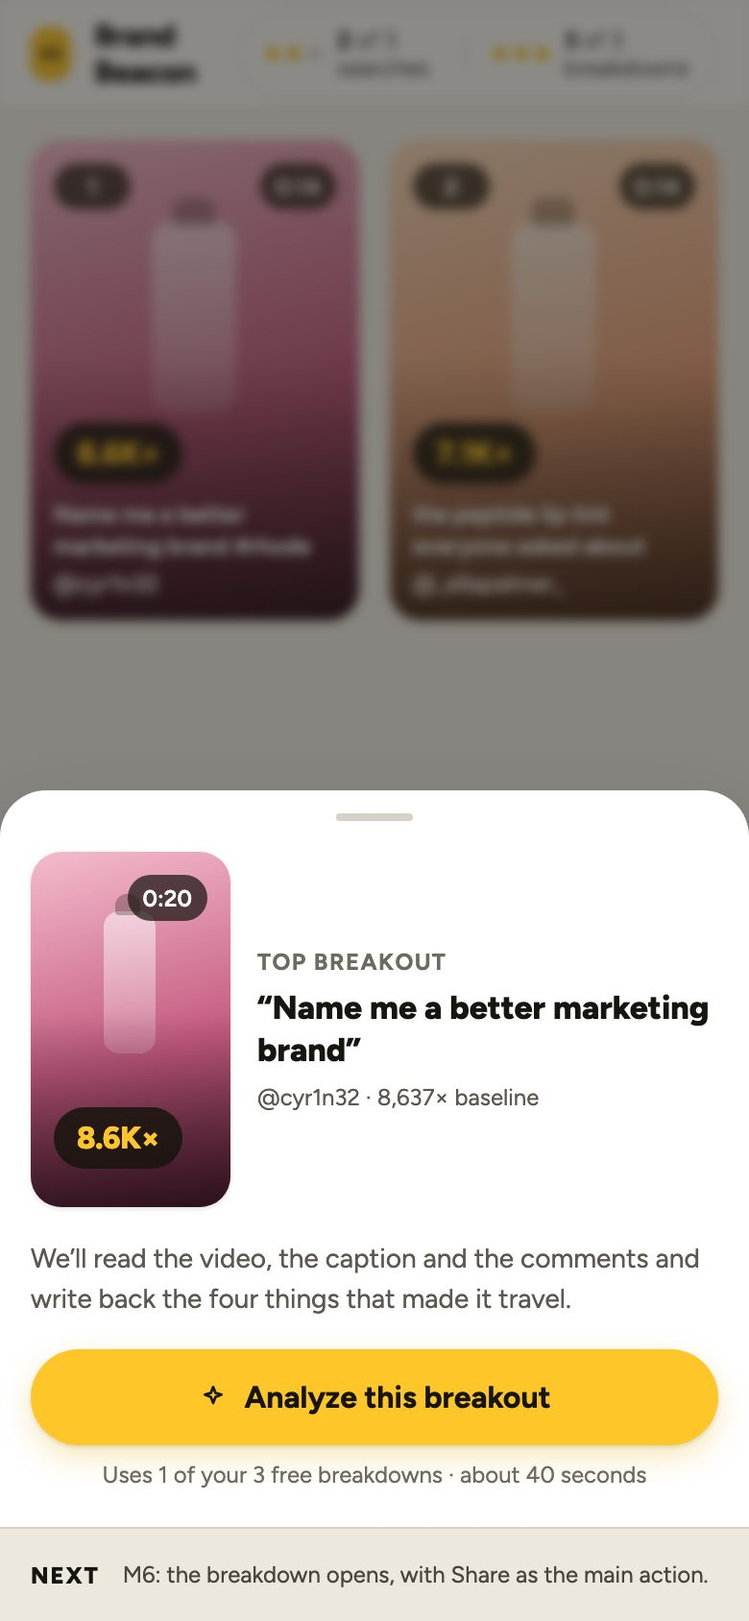
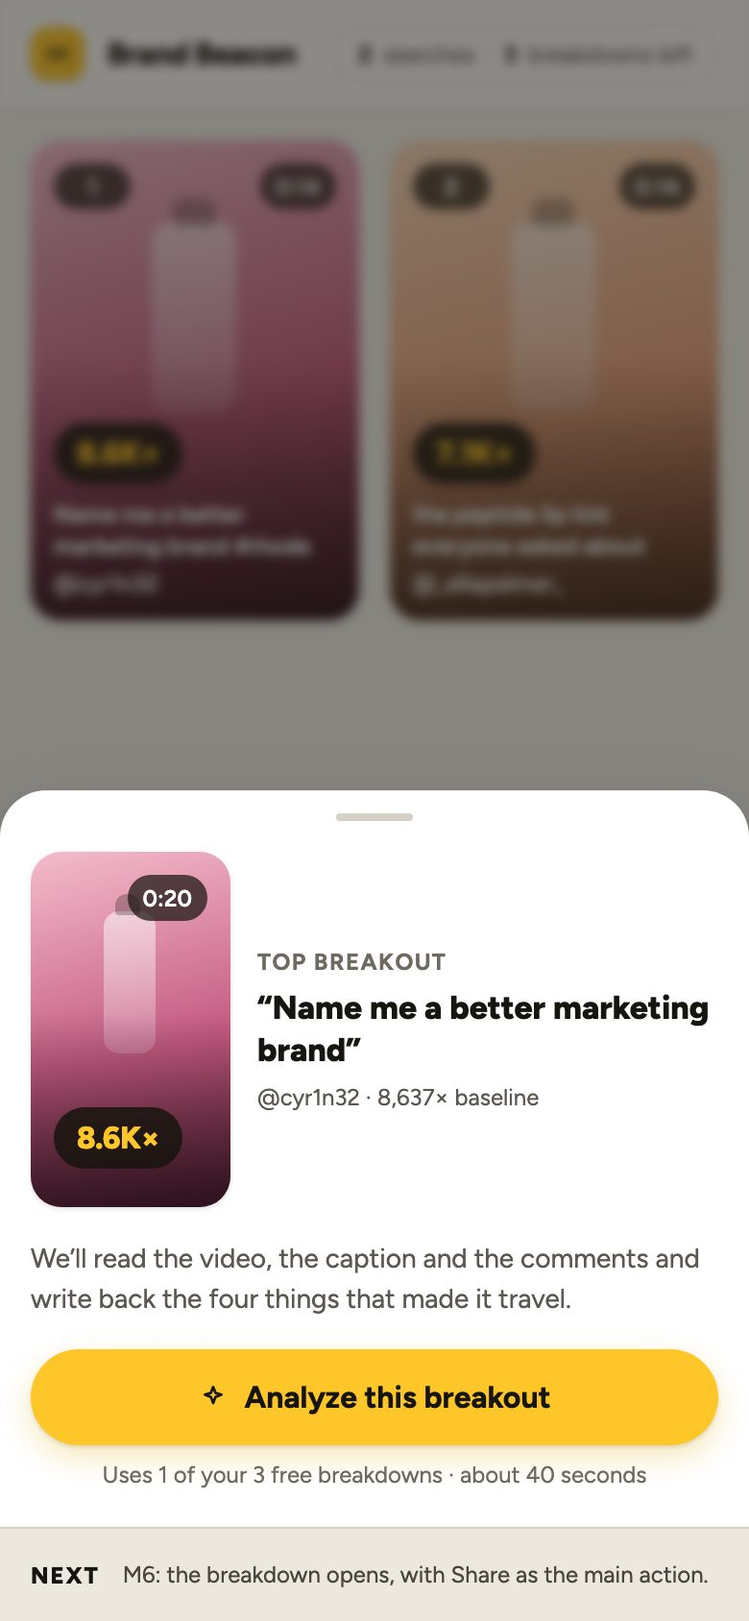
UI pass: cut the clutter and fix the hierarchy
Landing page went from 18 competing elements to 9. Dropped the eyebrow
pill, the trust row (its "11,000+ brands" claim moved into the subhead
and "no card" now appears once instead of twice) and the card's
restatement of its own heading. Google is the single solid primary and
email is a text link. The proof moved into the left column led by
8,637x at 44px rather than 22px in a detached box, and the duplicate
score chip came off the thumbnail.

Quota now counts one direction, what is left, and lives only in the
top bar: the "Search 1 of 3" card is gone from S03, the pill and "2
left, they do not expire" from S06, the chip from S07. On mobile it is
one line without the dots, which were redundant with the number.

The check icon meant three things. "Do this next" now uses arrows and
is a white card with a yellow left border, so it stops competing with
the Share button under it.

Results has one primary: Analyze on the top breakout only, and "Sort:
Breakout Score" went because the subhead already says it.

Also out: the inert "Do this next" tab whose content was already on
screen, the video caption that repeated the H1, and the second creator
block.

diff --git a/user-flow/src/gen.py b/user-flow/src/gen.py
@@ -210,11 +210,17 @@ G_SVG = ('<svg width="20" height="20" viewBox="0 0 48 48" aria-hidden="true" sty
  '<path fill="#FBBC05" d="M11.6 28c-.4-1.3-.7-2.6-.7-4s.3-2.7.7-4v-5.8H4.2C2.8 17.1 2 20.4 2 24s.8 6.9 2.2 9.8l7.4-5.8z"/>'
  '<path fill="#EA4335" d="M24 10.8c3.3 0 6.2 1.1 8.5 3.3l6.3-6.3C35 4.2 30 2 24 2 15.3 2 7.8 6.9 4.2 14.2l7.4 5.8C13.3 14.7 18.2 10.8 24 10.8z"/></svg>')
 
-def google_btn(full=True, h=52, fs=16, label='Continue with Google'):
+def google_btn(full=True, h=52, fs=16, label='Continue with Google', solid=False):
     w = 'width:100%;' if full else ''
-    return (f'<button type="button" style="height:{h}px; padding:0 24px; border-radius:999px; border:1px solid {LINE2}; background:{SURF}; '
-            f'font-family:inherit; font-size:{fs}px; font-weight:700; color:{INK}; cursor:pointer; display:inline-flex; align-items:center; '
-            f'justify-content:center; gap:12px; white-space:nowrap; box-shadow:{SH2}; {w}">{G_SVG}{label}</button>')
+    if solid:
+        st = f'border:none; background:{INK}; color:#ffffff; box-shadow:{SH2};'
+        chip = f'<span style="width:26px; height:26px; border-radius:999px; background:#fff; display:inline-flex; align-items:center; justify-content:center;">{G_SVG}</span>'
+    else:
+        st = f'border:1px solid {LINE2}; background:{SURF}; color:{INK}; box-shadow:{SH2};'
+        chip = G_SVG
+    return (f'<button type="button" style="height:{h}px; padding:0 24px; border-radius:999px; {st} '
+            f'font-family:inherit; font-size:{fs}px; font-weight:700; cursor:pointer; display:inline-flex; align-items:center; '
+            f'justify-content:center; gap:12px; white-space:nowrap; {w}">{chip}{label}</button>')
 
 def hero_search(w=780):
     return (f'<div style="width:{w}px; background:{SURF}; border-radius:999px; padding:10px 10px 10px 26px; box-sizing:border-box; '
@@ -285,7 +291,7 @@ def progress(mobile=False):
             f'<span style="font-size:{12 if mobile else 14}px; color:{T2}; line-height:1.5;">It opens on its own when ready. We&rsquo;ll also email you.</span></div>')
 
 def tabs(mobile=False, names=None, active=0):
-    names = names or ['Why it worked', 'Do this next', 'Hook', 'Transcript']
+    names = names or ['Why it worked', 'Hook', 'Transcript']
     tt = ''
     for i, n in enumerate(names):
         on = i == active
@@ -299,15 +305,18 @@ def do_next_card(mobile=False):
     The four drivers explain someone else's video. This turns them into the brand's next move."""
     acts = [('Brief a creator with it', 'Open with a countable challenge, one line, no filler.'),
             ('Post it in the same window', 'This ran Tue 7pm. Your last three breakouts did too.')]
-    li = ''.join(f'<li style="display:flex; gap:10px;">{check_dot(18)}<span><span style="display:block; font-size:{14 if mobile else 15}px; font-weight:700; line-height:1.35;">{a}</span>'
-                 f'{"" if mobile else f"<span style=\'display:block; font-size:13px; color:{Y_TXT}; line-height:1.4;\'>{b}</span>"}</span></li>' for a, b in acts)
-    creator = (f'<div style="display:flex; align-items:center; gap:10px; padding-top:12px; border-top:1px solid {Y_LINE};">{avatar("CY", 32, "berry")}'
-               f'<span style="display:flex; flex-direction:column; line-height:1.3; min-width:0; flex-grow:1;">'
-               f'<span style="font-size:{13 if mobile else 14}px; font-weight:700;">@cyr1n32 &middot; not yet partnered</span>'
-               f'<span style="font-size:12px; color:{Y_TXT};">3 breakouts for skincare brands this quarter</span></span>'
+    arrow = (f'<span style="width:18px; height:18px; border-radius:999px; background:{Y_TINT}; display:inline-flex; align-items:center; '
+             f'justify-content:center; flex-shrink:0; margin-top:2px;">{ic(P_ARROW, 11, Y_TXT, 2.4)}</span>')
+    li = ''.join(f'<li style="display:flex; gap:10px;">{arrow}<span><span style="display:block; font-size:{14 if mobile else 15}px; font-weight:700; line-height:1.35;">{a}</span>'
+                 f'{"" if mobile else f"<span style=\'display:block; font-size:13px; color:{T2}; line-height:1.4;\'>{b}</span>"}</span></li>' for a, b in acts)
+    creator = (f'<div style="display:flex; align-items:center; gap:10px; padding-top:12px; border-top:1px solid {LINE};">'
+               f'<span style="display:flex; flex-direction:column; line-height:1.35; min-width:0; flex-grow:1;">'
+               f'<span style="font-size:{13 if mobile else 14}px; font-weight:700;">The creator is not yet partnered</span>'
+               f'<span style="font-size:12px; color:{T2};">3 breakouts for skincare brands this quarter</span></span>'
                f'{btn("Add to creator list", "secondary", 36, 13)}</div>')
-    return (f'<div style="background:{Y_TINT}; border:1px solid {Y_LINE}; border-radius:16px; padding:{14 if mobile else 15}px; display:flex; flex-direction:column; gap:10px;">'
-            f'{label("Do this next", Y_TXT)}<ul style="margin:0; padding:0; list-style:none; display:flex; flex-direction:column; gap:8px;">{li}</ul>{creator}</div>')
+    return (f'<div style="background:{SURF}; border-radius:16px; border-left:4px solid {Y}; padding:{14 if mobile else 15}px; '
+            f'box-shadow:{SH1}; display:flex; flex-direction:column; gap:10px;">'
+            f'{label("Do this next")}<ul style="margin:0; padding:0; list-style:none; display:flex; flex-direction:column; gap:8px;">{li}</ul>{creator}</div>')
 
 def tile_meta(fol, w):
     return f'<span style="display:block; width:{w}px; margin-top:8px; font-size:14px; color:{T2};">{fol}</span>'
@@ -315,32 +324,34 @@ def tile_meta(fol, w):
 
 # ---------- v4 shared pieces: the free quota is the spine of this flow ----------
 def quota(searches, analyses, mobile=False, tint=False):
-    """3 searches and 3 breakdowns, visible from the first screen so the paywall is never a surprise."""
+    """Counts what is LEFT, and only ever appears in the bar. Screens do not restate it."""
     def meter(used, total, word):
         dots = ''.join(f'<span style="width:{7 if mobile else 8}px; height:{7 if mobile else 8}px; border-radius:999px; '
                        f'background:{Y if i < total - used else "rgba(23,21,15,.16)"};"></span>' for i in range(total))
         return (f'<span style="display:inline-flex; align-items:center; gap:8px;">'
                 f'<span style="display:inline-flex; gap:4px;">{dots}</span>'
-                f'<span style="font-size:{12 if mobile else 13}px; color:{T2};"><b style="color:{INK};">{total - used}</b> of {total} {word}</span></span>')
+                f'<span style="font-size:{12 if mobile else 13}px; color:{T2};"><b style="color:{INK};">{total - used}</b> {word} left</span></span>')
     bg = f'background:{Y_TINT}; border:1px solid {Y_LINE};' if tint else f'background:{SURF}; border:1px solid {LINE};'
-    return (f'<div style="display:inline-flex; align-items:center; gap:{14 if mobile else 20}px; padding:{8 if mobile else 10}px {14 if mobile else 16}px; '
+    if mobile:
+        return (f'<span style="display:inline-flex; align-items:center; gap:6px; padding:7px 12px; border-radius:999px; {bg} '
+                f'font-size:12px; color:{T2}; white-space:nowrap;"><b style="color:{INK};">{3 - searches}</b> searches'
+                f'<span style="color:{T3};">&middot;</span><b style="color:{INK};">{3 - analyses}</b> breakdowns left</span>')
+    return (f'<div style="display:inline-flex; align-items:center; gap:20px; padding:10px 16px; '
             f'border-radius:999px; {bg}">{meter(searches, 3, "searches")}'
             f'<span style="width:1px; height:16px; background:{LINE2};"></span>{meter(analyses, 3, "breakdowns")}</div>')
 
-def signin_card(w=420, mobile=False):
-    """Ivan, 24 Sept: 'landing page with focus on google sign in (also other sign in)'."""
-    gets = ['3 brand searches', '3 AI breakdowns', 'Share any breakout, no limit', 'No card']
-    li = ''.join(f'<li style="display:flex; align-items:center; gap:10px; font-size:{14 if mobile else 15}px;">{check_dot(18)}{g}</li>' for g in gets)
+def signin_card(w=400, mobile=False):
+    """One heading, three lines, one primary. Everything else was restating it."""
+    gets = ['3 brand searches', '3 AI breakdowns', 'No card, ever']
+    li = ''.join(f'<li style="display:flex; align-items:center; gap:10px; font-size:{15 if mobile else 16}px;">{check_dot(18)}{g}</li>' for g in gets)
     return (f'<div style="width:{"100%" if mobile else str(w) + "px"}; box-sizing:border-box; background:{SURF}; border-radius:24px; '
-            f'padding:{20 if mobile else 28}px; box-shadow:{SH3}; display:flex; flex-direction:column; gap:{14 if mobile else 18}px;">'
-            f'<div style="display:flex; flex-direction:column; gap:4px;">'
-            f'<span style="font-size:{20 if mobile else 22}px; font-weight:800; letter-spacing:-0.02em;">Start free</span>'
-            f'<span style="font-size:{13 if mobile else 14}px; color:{T2};">Here is what a free account gets you.</span></div>'
-            f'<ul style="margin:0; padding:0; list-style:none; display:flex; flex-direction:column; gap:10px;">{li}</ul>'
-            f'{google_btn(True, 52, 16)}'
-            f'{btn("Continue with email", "secondary", 48, 15, True, ic(P_MAIL, 16, INK))}'
-            f'<span style="font-size:12px; color:{T3}; text-align:center; line-height:1.5;">Already have an account? '
-            f'<a href="#" style="color:{Y_TXT}; font-weight:700;">Sign in</a></span></div>')
+            f'padding:{22 if mobile else 30}px; box-shadow:{SH3}; display:flex; flex-direction:column; gap:{18 if mobile else 22}px;">'
+            f'<span style="font-size:{21 if mobile else 23}px; font-weight:800; letter-spacing:-0.02em;">Start free</span>'
+            f'<ul style="margin:0; padding:0; list-style:none; display:flex; flex-direction:column; gap:12px;">{li}</ul>'
+            f'<div style="display:flex; flex-direction:column; gap:14px;">{google_btn(True, 54, 16, solid=True)}'
+            f'<span style="font-size:14px; color:{T2}; text-align:center;">'
+            f'<a href="#" style="color:{Y_TXT}; font-weight:700;">Use email instead</a>'
+            f'<span style="color:{T3};"> &middot; </span><a href="#" style="color:{T2};">Sign in</a></span></div></div>')
 
 def app_bar(searches=0, analyses=0, mobile=False, right=None):
     """Signed-in chrome. The quota rides in the bar on every screen."""
@@ -363,7 +374,7 @@ def result_card(i, w=200, scored=True, cta=False, highlight=False):
     ring = f'box-shadow:0 0 0 3px {Y}, {SH2}; border-radius:19px; padding:3px;' if highlight else ''
     inner = (f'{tile(w, pal, cap, hd, ["0:20","0:11","0:10","0:14","0:12","0:16"][i], sc if scored else None, rank=i+1, small=True)}'
              f'<span style="display:block; margin-top:8px; font-size:13px; color:{T2};">{fol}</span>'
-             + (f'<div style="margin-top:10px;">{analyze_btn(38, 13, True, "Analyze", "secondary")}</div>' if cta else ''))
+             + (f'<div style="margin-top:10px;">{analyze_btn(38, 13, True, "Analyze")}</div>' if cta else ''))
     return f'<div style="{ring}">{inner}</div>'
 
 def plan_wall(title, body, mobile=False):
@@ -385,22 +396,21 @@ def plan_wall(title, body, mobile=False):
 
 # =================== DESKTOP ===================
 def d01():
-    """S01 Landing. Sign-in is the focus; a real breakout sits beside it so the offer is not only a promise."""
-    left = (f'<div style="width:560px; display:flex; flex-direction:column; gap:22px;">'
-            f'<div>{pill("TikTok Viral Breakouts")}</div>'
-            f'<h1 style="margin:0; font-size:46px; font-weight:800; letter-spacing:-0.03em; line-height:1.08;">Find the TikToks that broke out for any brand</h1>'
-            f'<p style="margin:0; font-size:18px; color:{T2}; line-height:1.5; max-width:28em;">Facebook has an ad library. Organic TikTok doesn&rsquo;t. So we built it.</p>'
-            f'{trust(["Free account, no card", "11,000+ brands indexed weekly"])}</div>')
+    """S01. Was eighteen competing elements; now two zones."""
     pal, cap, hd, sc, fol = TILES[0]
-    proof = (f'<div style="background:{SURF}; border-radius:16px; padding:16px; box-shadow:{SH2}; display:flex; gap:14px; align-items:center;">'
-             f'{tile(62, pal, "", "", "0:20", None, small=True, h=105, radius=10)}'
-             f'<span style="display:flex; flex-direction:column; gap:2px; min-width:0;">{label("A real breakout")}'
-             f'<span style="font-size:22px; font-weight:800; color:{Y_TXT}; letter-spacing:-0.02em; line-height:1.15;">8,637&times;</span>'
-             f'<span style="font-size:13px; color:{T2}; line-height:1.35;">its creator&rsquo;s usual views &middot; @cyr1n32, 1.6K followers</span></span></div>')
-    right = f'<div style="width:420px; display:flex; flex-direction:column; gap:16px;">{signin_card()}{proof}</div>'
+    proof = (f'<div style="display:flex; align-items:flex-end; gap:20px;">'
+             f'{tile(168, pal, "", "", "0:20", None, rank=1, h=299)}'
+             f'<div style="display:flex; flex-direction:column; gap:4px; padding-bottom:6px;">'
+             f'<span style="font-size:44px; font-weight:800; color:{Y_TXT}; letter-spacing:-0.035em; line-height:1;">8,637&times;</span>'
+             f'<span style="font-size:16px; color:{T2}; line-height:1.45; max-width:19em;">its creator&rsquo;s usual views. '
+             f'A 1.6K-follower account, found for @rhode last Monday.</span></div></div>')
+    left = (f'<div style="width:600px; display:flex; flex-direction:column; gap:26px;">'
+            f'<h1 style="margin:0; font-size:48px; font-weight:800; letter-spacing:-0.035em; line-height:1.06;">Find the TikToks that broke out for any brand</h1>'
+            f'<p style="margin:0; font-size:19px; color:{T2}; line-height:1.5; max-width:26em;">Facebook has an ad library. Organic TikTok doesn&rsquo;t, '
+            f'so we index 11,000+ brands every Monday.</p>{proof}</div>')
     inner = (topnav(right=f'<a href="#" style="font-size:14px; font-weight:600; color:{T2}; text-decoration:none;">Pricing</a>'
                           f'<a href="#" style="font-size:14px; font-weight:600; color:{INK}; text-decoration:none;">Sign in</a>')
-             + f'<div style="flex-grow:1; display:flex; align-items:center; justify-content:center; gap:96px; padding:0 72px;">{left}{right}</div>')
+             + f'<div style="flex-grow:1; display:flex; align-items:center; justify-content:center; gap:80px; padding:0 72px;">{left}{signin_card()}</div>')
     return root(inner, 'S02: signed in, the first thing asked for is a brand.')
 
 def d01b():
@@ -476,26 +486,22 @@ def d02():
 
 def d03():
     """S03 Processing + the welcome video (Ivan or AI VO)."""
-    main = (f'<div style="flex-grow:1; padding:40px 56px; display:flex; flex-direction:column; gap:28px; overflow:hidden;">'
-            f'<div><h1 style="margin:0; font-size:30px; font-weight:800; letter-spacing:-0.025em;">Pulling @rhode now</h1>'
-            f'<p style="margin:8px 0 0; font-size:16px; color:{T2};">Two minutes at most. While you wait, here is how to read what comes back.</p></div>'
-            f'<div style="display:flex; gap:24px; align-items:flex-start;">{video_player(600, 392)}'
-            f'<div style="flex-grow:1; display:flex; flex-direction:column; gap:16px;">{progress()}'
-            f'<div style="background:{Y_TINT}; border:1px solid {Y_LINE}; border-radius:16px; padding:20px; display:flex; flex-direction:column; gap:8px;">'
-            f'<span style="font-size:15px; font-weight:800;">Search 1 of 3</span>'
-            f'<span style="font-size:14px; color:{Y_TXT}; line-height:1.5;">Your other two are kept until you use them. Nothing expires.</span></div></div></div></div>')
-    inner = app_bar(1, 0) + main
-    return root(inner, 'S04: the results land, every score already visible.')
+    main = (f'<div style="flex-grow:1; display:flex; flex-direction:column; justify-content:center; gap:26px; padding:0 56px;">'
+            f'<div><h1 style="margin:0; font-size:32px; font-weight:800; letter-spacing:-0.025em;">Pulling @rhode now</h1>'
+            f'<p style="margin:8px 0 0; font-size:17px; color:{T2};">Two minutes at most. While you wait, here is how to read what comes back.</p></div>'
+            f'<div style="display:flex; gap:28px; align-items:center;">{video_player(660, 400)}'
+            f'<div style="flex-grow:1;">{progress()}</div></div></div>')
+    return root(app_bar(1, 0) + main, 'S04: the results land, every score already visible.')
 
 def d04():
     """S04 Search results. Signed in, so nothing is masked."""
-    row = ''.join(result_card(i, 188, cta=True) for i in range(4))
+    row = ''.join(result_card(i, 188, cta=(i == 0)) for i in range(4))
     row2 = ''.join(result_card(i, 188) for i in range(4, 6))
     head = (f'<div style="display:flex; align-items:flex-end; justify-content:space-between;">'
             f'<div style="display:flex; align-items:center; gap:16px;">{avatar("RH", 48, "berry")}'
             f'<div style="display:flex; flex-direction:column; gap:4px;"><span style="font-size:30px; font-weight:800; letter-spacing:-0.025em; line-height:1.1;">@rhode</span>'
             f'<span style="font-size:14px; color:{T2};">Skincare &middot; 200 breakouts &middot; ranked by Breakout Score</span></div></div>'
-            f'<div style="display:flex; align-items:center; gap:12px;">{btn("Sort: Breakout Score", "secondary", 40, 14)}{btn("Export", "secondary", 40, 14)}</div></div>')
+            f'{btn("Export", "secondary", 40, 14)}</div>')
     body = (f'<div style="flex-grow:1; padding:28px 48px 0; display:flex; flex-direction:column; gap:22px; overflow:hidden;">{head}'
             f'<div style="display:flex; gap:20px;">{row}</div>'
             f'<div style="position:relative; height:126px; overflow:hidden;"><div style="display:flex; gap:20px;">{row2}</div>'
@@ -518,7 +524,7 @@ def d05():
              f'<div style="display:flex; flex-direction:column; gap:8px;">{analyze_btn(50, 16, True)}'
              f'<span style="font-size:13px; color:{T3}; text-align:center;">Uses 1 of your 3 free breakdowns &middot; about 40 seconds</span></div></div></div>')
     base = app_bar(1, 0) + (f'<div style="flex-grow:1; padding:28px 48px 0; display:flex; gap:20px; overflow:hidden;">'
-                            + ''.join(result_card(i, 188, cta=True, highlight=(i == 0)) for i in range(4)) + '</div>')
+                            + ''.join(result_card(i, 188, cta=(i == 0), highlight=(i == 0)) for i in range(4)) + '</div>')
     inner = (f'<div style="position:absolute; inset:0; display:flex; flex-direction:column; filter:blur(3px);">{base}</div>'
              f'<div style="position:absolute; inset:0; background:rgba(23,21,15,.5);"></div>{sheet}')
     return root(inner, 'S06: the breakdown opens, with Share as the main action.')
@@ -527,7 +533,6 @@ def d06():
     """S06 Analysis detail with share. Carries the Do this next block agreed on 23 Sept."""
     pal, cap, hd, sc, fol = TILES[0]
     right = (f'<div style="flex-grow:1; display:flex; flex-direction:column; gap:11px; min-width:0;">'
-             f'<div style="display:flex; align-items:center; gap:12px;">{pill("Breakdown 1 of 3 used", G_TINT, G_TXT)}<span style="font-size:14px; color:{T2};">2 left, they do not expire</span></div>'
              f'<div><h1 style="margin:0; font-size:24px; font-weight:800; letter-spacing:-0.02em; line-height:1.25;">&ldquo;Name me a better marketing brand&rdquo;</h1>'
              f'<div style="display:flex; align-items:center; gap:12px; margin-top:10px;">{avatar("CY", 32, "berry")}<span style="font-size:14px;"><strong>@cyr1n32</strong> <span style="color:{T2};">&middot; 1.6K followers &middot; 8.9M views &middot; 1.7M likes</span></span></div></div>'
              f'{tabs()}<div style="background:{SURF}; border-radius:16px; padding:14px; box-shadow:{SH1};">{driver_list(3, fs_t=15, fs_d=13, gap=10)}</div>'
@@ -535,7 +540,7 @@ def d06():
              f'<div style="display:flex; align-items:center; gap:12px;">{btn("Share this breakout", "primary", 46, 15, icon=ic(P_SHARE, 16, INK, 2))}{btn("Open on TikTok", "secondary", 46, 15)}{btn("Save", "secondary", 46, 15)}</div></div>')
     main = (f'<div style="flex-grow:1; padding:24px 40px; display:flex; flex-direction:column; gap:16px; overflow:hidden;">'
             f'<span style="font-size:14px; color:{T2};"><a href="#" style="color:{T2}; text-decoration:none;">@rhode</a> &nbsp;/&nbsp; <strong style="color:{INK};">Top breakout</strong></span>'
-            f'<div style="display:flex; gap:28px; align-items:flex-start;">{tile(250, pal, cap, hd, "0:20", sc, rank=1, embed=True, h=445)}{right}</div></div>')
+            f'<div style="display:flex; gap:28px; align-items:flex-start;">{tile(250, pal, "", hd, "0:20", sc, rank=1, embed=True, h=445)}{right}</div></div>')
     return root(app_bar(1, 1) + main, 'S07: after the breakdown, the next brand is offered.')
 
 def d06b():
@@ -565,8 +570,7 @@ def d07():
             f'<div style="display:flex; align-items:flex-start; justify-content:space-between; gap:24px;">'
             f'<div style="display:flex; flex-direction:column; gap:8px;">'
             f'<h1 style="margin:0; font-size:28px; font-weight:800; letter-spacing:-0.025em; line-height:1.2;">That is one. You have two searches left.</h1>'
-            f'<p style="margin:0; font-size:16px; color:{T2}; line-height:1.5;">Most people spend the next one on a competitor, to see what is working for them that is not working for you.</p></div>'
-            f'{quota(1, 1, tint=True)}</div>'
+            f'<p style="margin:0; font-size:16px; color:{T2}; line-height:1.5; max-width:34em;">Most people spend the next one on a competitor, to see what is working for them that is not working for you.</p></div></div>'
             f'<div style="display:flex; gap:16px;">{sug("glowrecipe", "Skincare", 1)}{sug("summerfridays", "Skincare", 2)}{sug("kosas", "Beauty", 3)}</div>'
             f'<div style="display:flex; align-items:center; gap:12px; padding-top:4px;">'
             f'<div style="flex-grow:1;">{fake_field("Or type any other brand or product", icon=ic(P_SEARCH, 16, T3, 2))}</div>'
@@ -602,17 +606,17 @@ def d09():
 # =================== MOBILE ===================
 def m01():
     pal, cap, hd, sc, fol = TILES[0]
-    proof = (f'<div style="background:{SURF}; border-radius:16px; padding:14px; box-shadow:{SH1}; display:flex; gap:12px; align-items:center;">'
-             f'{tile(58, pal, "", "", "0:20", None, small=True, h=98, radius=10)}'
-             f'<span style="display:flex; flex-direction:column; gap:1px; min-width:0;">'
-             f'<span style="font-size:18px; font-weight:800; color:{Y_TXT}; letter-spacing:-0.02em;">8,637&times;</span>'
-             f'<span style="font-size:12px; color:{T2}; line-height:1.35;">its creator&rsquo;s usual views</span>'
-             f'<span style="font-size:11px; color:{T3}; margin-top:2px;">@cyr1n32 &middot; 1.6K followers</span></span></div>')
+    proof = (f'<div style="display:flex; gap:16px; align-items:center;">'
+             f'{tile(92, pal, "", "", "0:20", None, small=True, h=156, radius=12)}'
+             f'<span style="display:flex; flex-direction:column; gap:2px; min-width:0;">'
+             f'<span style="font-size:32px; font-weight:800; color:{Y_TXT}; letter-spacing:-0.03em; line-height:1;">8,637&times;</span>'
+             f'<span style="font-size:14px; color:{T2}; line-height:1.45;">its creator&rsquo;s usual views. A 1.6K-follower account, found for @rhode.</span></span></div>')
     inner = (topnav(True, f'<a href="#" style="font-size:14px; font-weight:700; color:{INK}; text-decoration:none;">Sign in</a>')
-             + f'<div style="flex-grow:1; padding:22px 16px; display:flex; flex-direction:column; gap:16px; overflow:hidden;">'
-             f'<h1 style="margin:0; font-size:29px; font-weight:800; letter-spacing:-0.03em; line-height:1.1;">Find the TikToks that broke out for any brand</h1>'
-             f'<p style="margin:0; font-size:15px; color:{T2}; line-height:1.5;">Facebook has an ad library. Organic TikTok doesn&rsquo;t. So we built it.</p>'
-             f'{signin_card(mobile=True)}{proof}</div>')
+             + f'<div style="flex-grow:1; padding:24px 16px; display:flex; flex-direction:column; gap:22px; overflow:hidden;">'
+             f'<div style="display:flex; flex-direction:column; gap:12px;">'
+             f'<h1 style="margin:0; font-size:30px; font-weight:800; letter-spacing:-0.03em; line-height:1.1;">Find the TikToks that broke out for any brand</h1>'
+             f'<p style="margin:0; font-size:16px; color:{T2}; line-height:1.5;">Facebook has an ad library. Organic TikTok doesn&rsquo;t, so we index 11,000+ brands every Monday.</p></div>'
+             f'{proof}{signin_card(mobile=True)}</div>')
     return root(inner, 'M2: signed in, the first thing asked for is a brand.', True)
 
 def m01b():
@@ -673,25 +677,24 @@ def m02():
     return root(inner, 'M3: the search runs while a short welcome plays.', True)
 
 def m03():
-    inner = (app_bar(1, 0, True) + f'<div style="flex-grow:1; padding:20px 16px; display:flex; flex-direction:column; gap:14px; overflow:hidden;">'
+    inner = (app_bar(1, 0, True) + f'<div style="flex-grow:1; padding:20px 16px; display:flex; flex-direction:column; justify-content:center; gap:18px; overflow:hidden;">'
              f'<div><h1 style="margin:0; font-size:23px; font-weight:800; letter-spacing:-0.025em;">Pulling @rhode now</h1>'
              f'<p style="margin:4px 0 0; font-size:14px; color:{T2};">Two minutes at most. Here is how to read what comes back.</p></div>'
-             f'{video_player(358, 196, True)}{progress(True)}'
-             f'<div style="background:{Y_TINT}; border:1px solid {Y_LINE}; border-radius:14px; padding:14px; display:flex; flex-direction:column; gap:4px;">'
-             f'<span style="font-size:14px; font-weight:800;">Search 1 of 3</span>'
-             f'<span style="font-size:13px; color:{Y_TXT}; line-height:1.45;">Your other two are kept until you use them. Nothing expires.</span></div></div>')
+             f'{video_player(358, 208, True)}{progress(True)}</div>')
     return root(inner, 'M4: the results land, every score already visible.', True)
 
 def m04():
     w = 171
-    row = ''.join(f'<div>{tile(w, TILES[i][0], TILES[i][1], TILES[i][2], "0:14", TILES[i][3], rank=i+1, small=True, h=250)}'
-                  f'<div style="margin-top:8px;">{analyze_btn(36, 13, True, "Analyze", "secondary")}</div></div>' for i in range(2))
+    cards = ''
+    for i in range(2):
+        cta = f'<div style="margin-top:8px;">{analyze_btn(36, 13, True, "Analyze")}</div>' if i == 0 else ''
+        cards += (f'<div>{tile(w, TILES[i][0], TILES[i][1], TILES[i][2], "0:14", TILES[i][3], rank=i+1, small=True, h=250)}{cta}</div>')
     peek = ''.join(f'<div>{tile(w, TILES[2+i][0], "", "", "0:12", TILES[2+i][3], rank=3+i, small=True, h=150)}</div>' for i in range(2))
     head = (f'<div style="display:flex; align-items:center; gap:12px;">{avatar("RH", 40, "berry")}'
             f'<div style="display:flex; flex-direction:column; gap:2px;"><span style="font-size:20px; font-weight:800; letter-spacing:-0.02em;">@rhode</span>'
             f'<span style="font-size:12px; color:{T2};">200 breakouts &middot; by Breakout Score</span></div></div>')
     inner = (app_bar(1, 0, True) + f'<div style="flex-grow:1; padding:16px; display:flex; flex-direction:column; gap:14px; overflow:hidden;">{head}'
-             f'<div style="display:flex; gap:16px;">{row}</div>'
+             f'<div style="display:flex; gap:16px;">{cards}</div>'
              f'<div style="position:relative; height:132px; overflow:hidden;"><div style="display:flex; gap:16px;">{peek}</div>'
              f'<div style="position:absolute; inset:0; background:linear-gradient(180deg,rgba(246,244,238,0) 10%,rgba(246,244,238,.94) 85%); '
              f'display:flex; align-items:flex-end; justify-content:center; padding-bottom:2px;">'
@@ -721,7 +724,7 @@ def m06():
     head = (f'<div style="height:56px; flex-shrink:0; display:flex; align-items:center; justify-content:space-between; padding:0 16px; background:{SURF}; border-bottom:1px solid {LINE};">'
             f'<span style="font-size:16px; font-weight:800;">Top breakout</span>{quota(1, 1, True)}</div>')
     top = (f'<div style="display:flex; gap:12px;">{tile(112, pal, "", "", "0:20", sc, small=True, h=168)}<div style="display:flex; flex-direction:column; gap:6px; min-width:0;">'
-           f'{pill("Breakdown 1 of 3", G_TINT, G_TXT)}<span style="font-size:16px; font-weight:800; line-height:1.3;">&ldquo;Name me a better marketing brand&rdquo;</span>'
+           f'<span style="font-size:16px; font-weight:800; line-height:1.3;">&ldquo;Name me a better marketing brand&rdquo;</span>'
            f'<span style="font-size:12px; color:{T2};"><strong style="color:{INK};">@cyr1n32</strong> &middot; 8.9M views</span>{link("Watch on TikTok", 13)}</div></div>')
     inner = (head + f'<div style="flex-grow:1; padding:16px; display:flex; flex-direction:column; gap:14px; overflow:hidden;">{top}{tabs(True)}'
              f'<div style="background:{SURF}; border-radius:14px; padding:14px; box-shadow:{SH1};">{driver_list(2, fs_t=14, fs_d=13, gap=10)}</div>'
